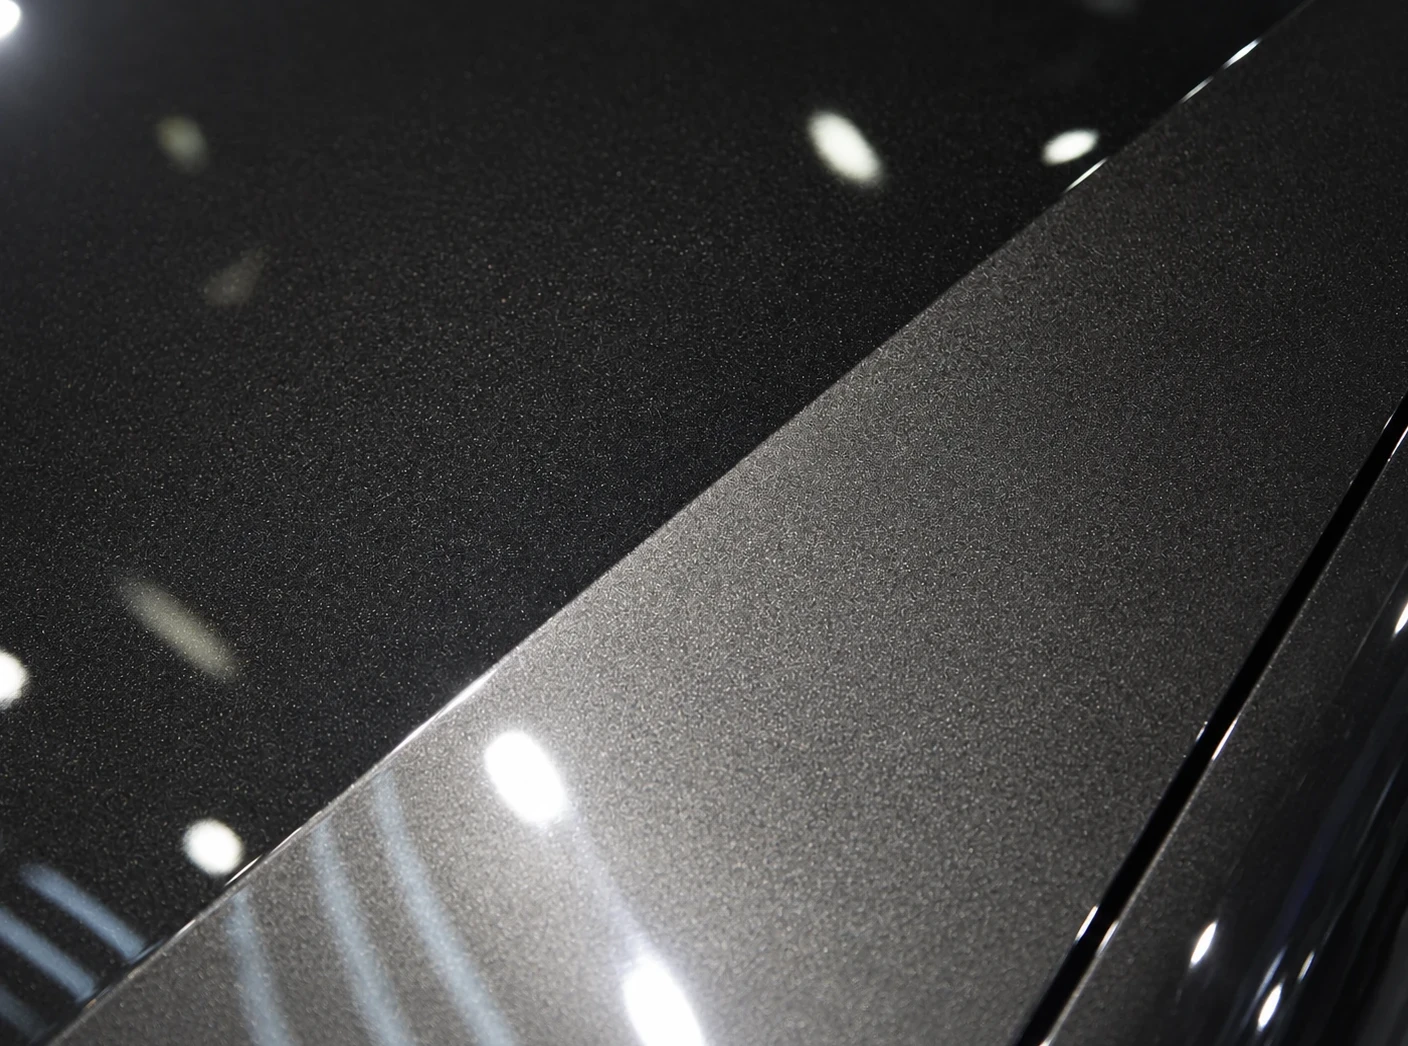
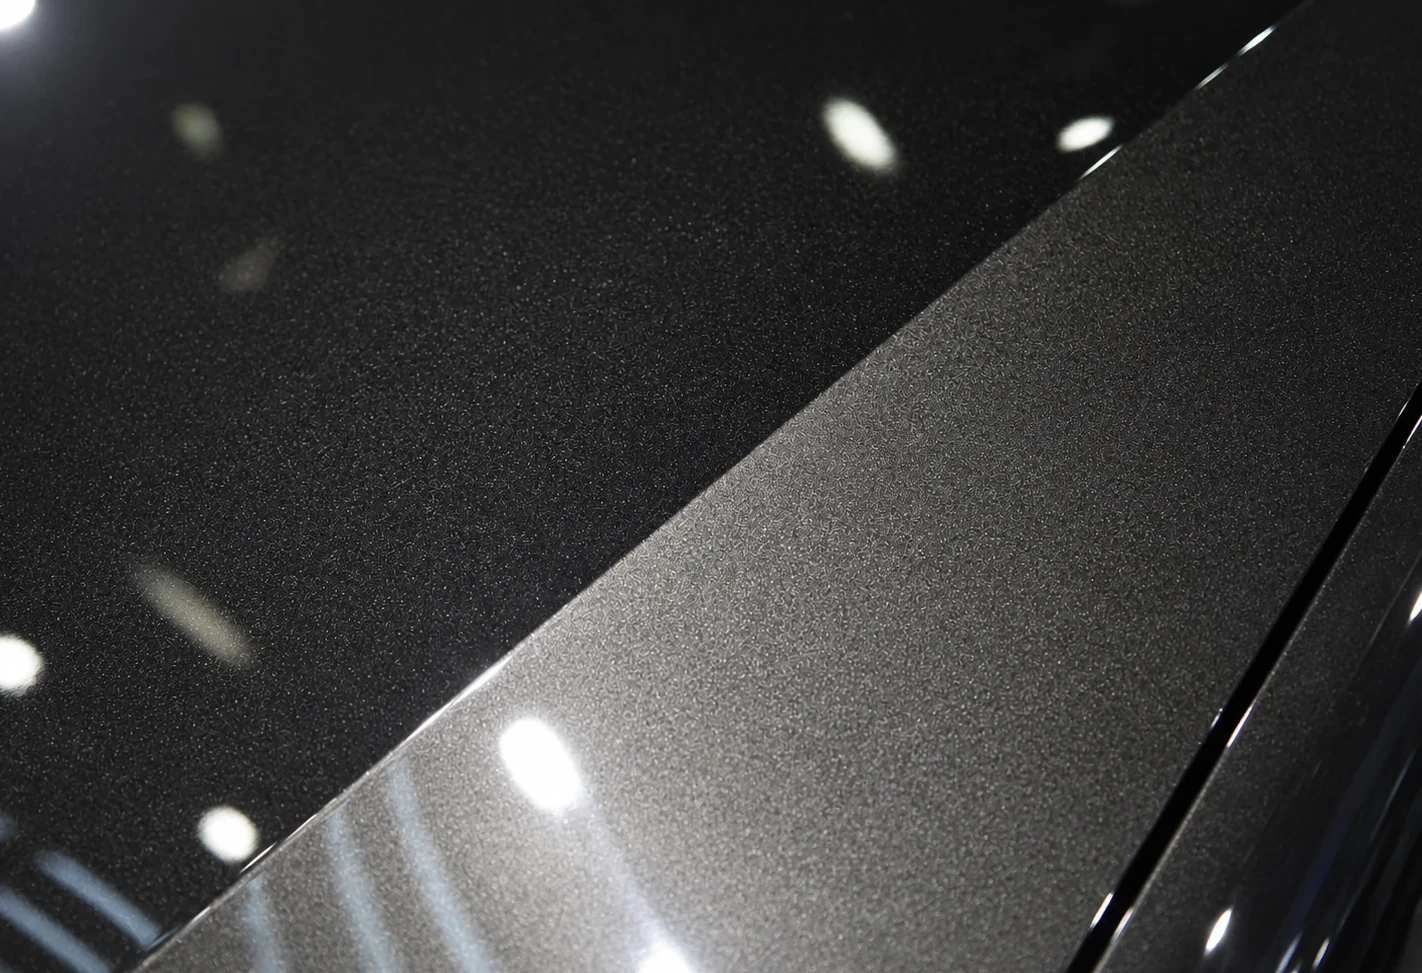
Swap in the new before image for the slider
The new before shot (wash scratches on black metallic paint) has its own
framing, so it is mapped onto the after image with a perspective
transform fitted to the light reflections, then turned 0.3 deg and
shifted a few pixels. Panel edges meet within a few pixels at the
divider, reflections sit 10-20 px apart like a second exposure. Both
images are cropped to the same fully covered area (1422 x 973).

Claude-Session: https://claude.ai/code/session_01Ez1TNvexnA7vwkefvvpsoo

diff --git a/content/media.ts b/content/media.ts
@@ -92,7 +92,7 @@ export const media = {
     needed: "Vorher/Nachher: echtes Fotopaar aus gleicher Perspektive (Vorher)",
     source: "ai",
     credit:
-      "KI-generiert (ChatGPT), 24.10.2026, leicht gedreht und versetzt wie eine zweite Aufnahme",
+      "KI-generiert (ChatGPT), 24.10.2026, auf das Nachher-Bild ausgerichtet und leicht versetzt wie eine zweite Aufnahme",
   },
   carStandort: {
     src: car31154217,
